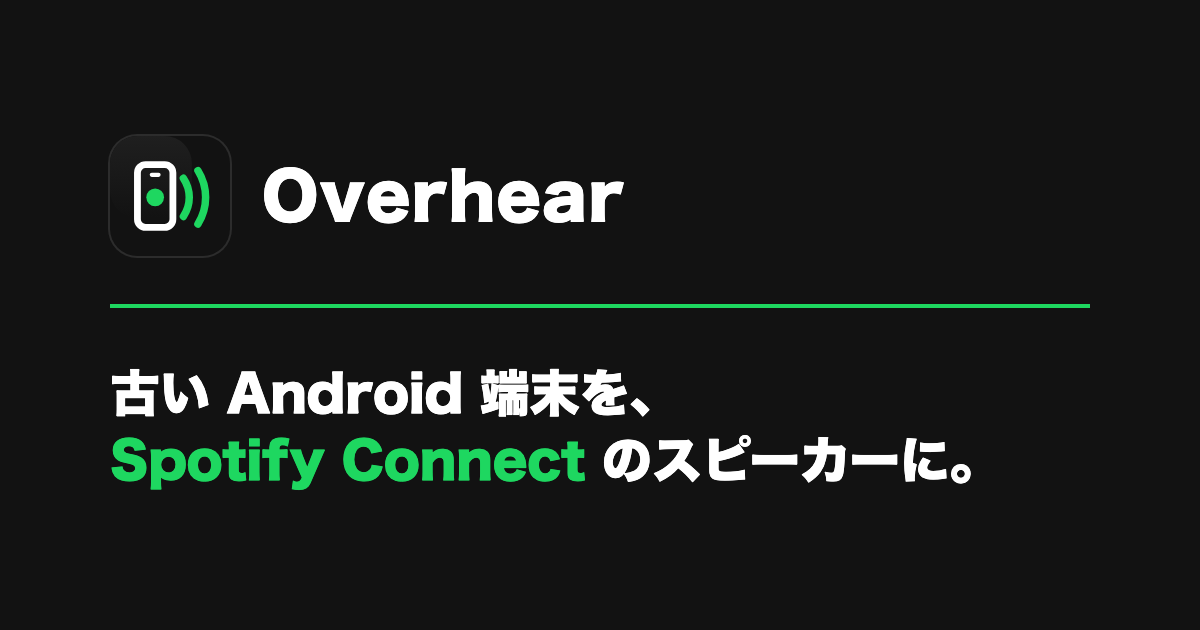
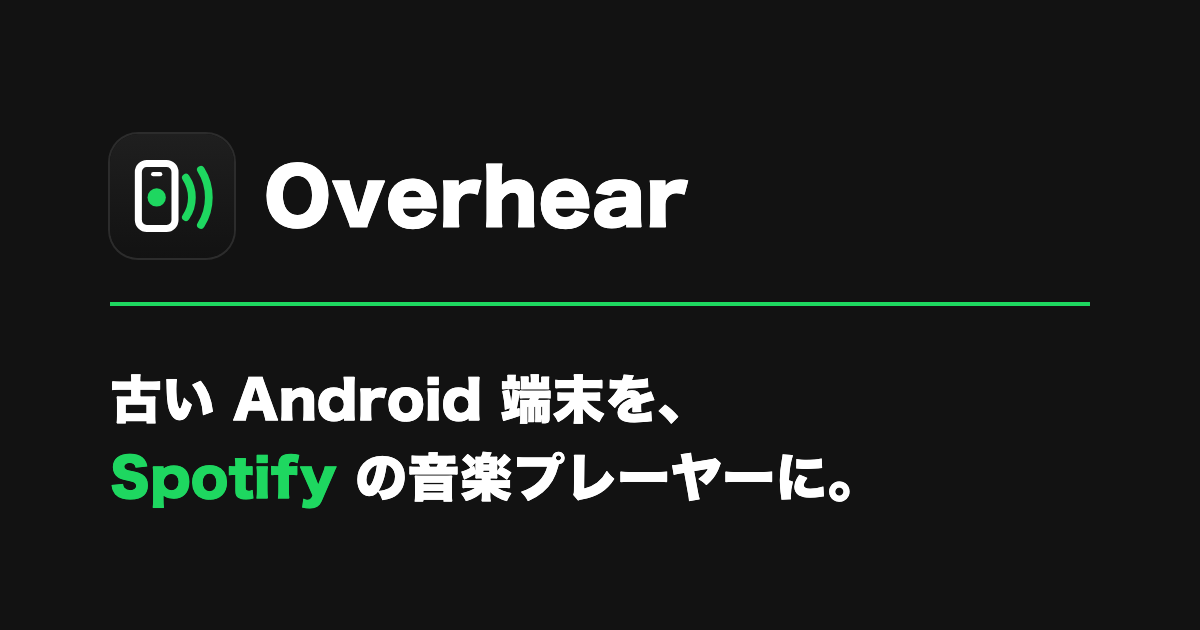
紹介ページと README を端末での選曲を主にした内容に改める
- コピーと OGP 画像を「Spotify の音楽プレーヤーに」に変更
- 紹介ページの「Overhear とは」をアイコン付きの箇条書きにし、公式クライアントで再生することを説明
- 「既知の不具合」を追加し、開始直後に再生に戻れない件とほかの人のプレイリストを移動
- スクリーンショットの角丸を小さく

diff --git a/docs/index.html b/docs/index.html
@@ -3,24 +3,24 @@
   <head>
     <meta charset="utf-8" />
     <meta name="viewport" content="width=device-width, initial-scale=1" />
-    <title>Overhear — 古い Android を Spotify Connect スピーカーに</title>
+    <title>Overhear — 古い Android を Spotify の音楽プレーヤーに</title>
     <meta
       name="description"
-      content="Overhear は古い Android 端末を Spotify Connect のスピーカー兼再生画面にするアプリです。Spotify 公式のヘッドレスクライアント Soloist で再生し、端末の画面からライブラリもたどれます。インストールと初回セットアップの手順。"
+      content="Overhear は古い Android 端末を Spotify の音楽プレーヤーにするアプリです。端末の画面だけで自分のライブラリを開いて選曲・再生でき、スマホの Spotify から Spotify Connect で操作することもできます。再生は Spotify 公式のヘッドレスクライアント Soloist が行います。インストールと初回セットアップの手順。"
     />
     <meta name="theme-color" content="#121212" />
     <meta property="og:type" content="website" />
     <meta property="og:site_name" content="Overhear" />
-    <meta property="og:title" content="Overhear — 古い Android を Spotify Connect スピーカーに" />
+    <meta property="og:title" content="Overhear — 古い Android を Spotify の音楽プレーヤーに" />
     <meta
       property="og:description"
-      content="古い Android 端末を Spotify Connect のスピーカー兼再生画面にするアプリ。インストールと初回セットアップの手順。"
+      content="古い Android 端末を Spotify の音楽プレーヤーに。端末だけでライブラリから選曲・再生でき、スマホの Spotify からも操作できます。インストールと初回セットアップの手順。"
     />
     <meta property="og:url" content="https://potkc.github.io/overhear/" />
     <meta property="og:image" content="https://potkc.github.io/overhear/og.png" />
     <meta property="og:image:width" content="1200" />
     <meta property="og:image:height" content="630" />
-    <meta property="og:image:alt" content="Overhear のアイコンと「古い Android 端末を、Spotify Connect のスピーカーに。」" />
+    <meta property="og:image:alt" content="Overhear のアイコンと「古い Android 端末を、Spotify の音楽プレーヤーに。」" />
     <meta property="og:locale" content="ja_JP" />
     <meta name="twitter:card" content="summary_large_image" />
     <meta name="twitter:site" content="@todayporton" />
@@ -361,6 +361,51 @@
         color: var(--text-2);
       }
 
+      .features {
+        list-style: none;
+        margin: 20px 0 8px;
+        padding: 0;
+      }
+      .features li {
+        display: flex;
+        gap: 16px;
+        align-items: flex-start;
+        padding: 14px 0;
+        border-top: 1px solid var(--line);
+      }
+      .features li:last-child {
+        border-bottom: 1px solid var(--line);
+      }
+      .feature-icon {
+        flex: none;
+        width: 40px;
+        height: 40px;
+        border-radius: 10px;
+        background: var(--surface);
+        color: var(--accent);
+        display: flex;
+        align-items: center;
+        justify-content: center;
+      }
+      .feature-icon svg {
+        width: 22px;
+        height: 22px;
+      }
+      .features h3 {
+        margin: 0 0 2px;
+        font-size: 1rem;
+        line-height: 1.5;
+      }
+      .features p {
+        margin: 0;
+        color: var(--text-2);
+        font-size: 0.92rem;
+        line-height: 1.7;
+      }
+      .card.official {
+        border-left: 3px solid var(--accent);
+      }
+
       .screens {
         display: flex;
         justify-content: center;
@@ -378,7 +423,7 @@
         width: 100%;
         height: auto;
         box-sizing: border-box;
-        border-radius: 18px;
+        border-radius: 12px;
         border: 8px solid #262626;
         box-shadow: 0 10px 30px rgba(0, 0, 0, 0.45);
       }
@@ -445,14 +490,6 @@
         h2 {
           font-size: 1.5rem;
         }
-        .grid-2 {
-          display: grid;
-          grid-template-columns: 1fr 1fr;
-          gap: 16px;
-        }
-        .grid-2 .card {
-          margin: 0;
-        }
       }
     </style>
   </head>
@@ -464,11 +501,13 @@
           <span>Overhear</span>
         </div>
         <h1>
-          古い Android 端末を、<br /><em>Spotify Connect</em> のスピーカーに。
+          古い Android 端末を、<br /><em>Spotify</em> の音楽プレーヤーに。
         </h1>
         <p class="lead">
-          スマホの Spotify
-          で再生先にこの端末を選ぶと、端末から音が出て、画面に曲名・アートワーク・シークバー・キューが表示されます。端末の画面から自分のライブラリをたどって選曲することもできます。
+          端末の画面だけで自分のライブラリを開き、アルバムやプレイリストを選んで再生できます。スマホの
+          Spotify から再生先に選べば、Spotify Connect
+          のスピーカーとしても使えます。再生は Spotify
+          公式のクライアントが行います。
         </p>
         <div class="actions">
           <a
@@ -503,7 +542,7 @@
           <li><a href="#setup">初回セットアップ</a></li>
           <li><a href="#usage">使い方のメモ</a></li>
           <li><a href="#privacy">キーとログインの扱い</a></li>
-          <li><a href="#feedback">要望・バグ報告</a></li>
+          <li><a href="#known-issues">既知の不具合</a></li>
         </ol>
       </div>
     </nav>
@@ -512,11 +551,8 @@
       <section id="about">
         <h2>Overhear とは</h2>
         <p>
-          Overhear は、古い Android 端末を Spotify Connect
-          のスピーカー兼再生画面にするアプリです。音を鳴らすのは Spotify
-          公式のヘッドレスクライアント <strong>Soloist</strong> で、Overhear
-          はそれを端末の上で動かします。非公式クライアントは使わず、DRM
-          の回避もしません。
+          古い Android 端末を Spotify
+          の音楽プレーヤーにするアプリです。
         </p>
         <div class="screens">
           <figure>
@@ -535,25 +571,52 @@
             <figcaption>ライブラリ（アルバム）</figcaption>
           </figure>
         </div>
-        <div class="grid-2">
-          <div class="card">
-            <h3>スピーカーとして</h3>
-            <p class="muted">
-              スマホや PC の Spotify
-              から再生先に選ぶだけ。曲名・アートワーク・キューが表示され、端末からも再生・一時停止・曲送りができます。音量は端末の音量キーとスマホの
-              Spotify の両方で変えられ、連動します。必要なのは Soloist の API
-              キーだけです。
-            </p>
-          </div>
-          <div class="card">
-            <h3>ライブラリ（任意）</h3>
-            <p class="muted">
-              Spotify
-              にログインすると、端末の画面で検索・お気に入りの曲・プレイリスト・アルバム・アーティスト・最近再生をたどれます。順番どおり・シャッフルの再生、選んだ曲からの再生、お気に入りへの追加・削除もできます。自分の
-              Spotify Developer アプリの Client ID が要ります。
-            </p>
-          </div>
+        <ul class="features">
+          <li>
+            <span class="feature-icon"><svg viewBox="0 0 24 24" aria-hidden="true"><path fill="currentColor" d="M2 18H12V20H2V18ZM2 11H16V13H2V11ZM2 4H22V6H2V4ZM19 15.1707V9H24V11H21V18C21 19.6569 19.6569 21 18 21C16.3431 21 15 19.6569 15 18C15 16.3431 16.3431 15 18 15C18.3506 15 18.6872 15.0602 19 15.1707ZM18 19C18.5523 19 19 18.5523 19 18C19 17.4477 18.5523 17 18 17C17.4477 17 17 17.4477 17 18C17 18.5523 17.4477 19 18 19Z"/></svg></span>
+            <div>
+              <h3>端末だけで選曲・再生</h3>
+              <p>検索・お気に入りの曲・プレイリスト・アルバム・アーティスト・最近再生をたどり、順番どおり・シャッフル・選んだ曲から再生できます。</p>
+            </div>
+          </li>
+          <li>
+            <span class="feature-icon"><svg viewBox="0 0 24 24" aria-hidden="true"><path fill="currentColor" d="M17.0001 12C17.5524 12 18.0001 12.4477 18.0001 13V22H16.0001V14H8.00015V22H6.00015V13C6.00015 12.4477 6.44786 12 7.00015 12H17.0001ZM12.0001 16V18H10.0001V16H12.0001ZM12.0001 6C14.3491 6 16.3827 7.34978 17.3678 9.31602L15.5787 10.2108C14.922 8.89991 13.5662 8 12.0001 8C10.4341 8 9.07833 8.89991 8.42163 10.2108L6.63247 9.31602C7.61755 7.34978 9.65122 6 12.0001 6ZM12.0001 2C15.9153 2 19.3049 4.24991 20.9466 7.5273L19.1576 8.42242C17.8443 5.80019 15.1325 4 12.0001 4C8.86783 4 6.15596 5.80019 4.84271 8.42242L3.05371 7.5273C4.69541 4.24991 8.08503 2 12.0001 2Z"/></svg></span>
+            <div>
+              <h3>スマホの Spotify から操作</h3>
+              <p>Spotify Connect の再生先としてこの端末を選べば、スマホや PC の Spotify からリモコンのように選曲・操作できます。</p>
+            </div>
+          </li>
+          <li>
+            <span class="feature-icon"><svg viewBox="0 0 24 24" aria-hidden="true"><path fill="currentColor" d="M12.001 4.52853C14.35 2.42 17.98 2.49 20.2426 4.75736C22.5053 7.02472 22.583 10.637 20.4786 12.993L11.9999 21.485L3.52138 12.993C1.41705 10.637 1.49571 7.01901 3.75736 4.75736C6.02157 2.49315 9.64519 2.41687 12.001 4.52853ZM18.827 6.1701C17.3279 4.66794 14.9076 4.60701 13.337 6.01687L12.0019 7.21524L10.6661 6.01781C9.09098 4.60597 6.67506 4.66808 5.17157 6.17157C3.68183 7.66131 3.60704 10.0473 4.97993 11.6232L11.9999 18.6543L19.0201 11.6232C20.3935 10.0467 20.319 7.66525 18.827 6.1701Z"/></svg></span>
+            <div>
+              <h3>お気に入り</h3>
+              <p>いまの曲やライブラリの曲を、アカウントのお気に入りに追加・削除できます。</p>
+            </div>
+          </li>
+          <li>
+            <span class="feature-icon"><svg viewBox="0 0 24 24" aria-hidden="true"><path fill="currentColor" d="M6.60282 10.0001L10 7.22056V16.7796L6.60282 14.0001H3V10.0001H6.60282ZM2 16.0001H5.88889L11.1834 20.3319C11.2727 20.405 11.3846 20.4449 11.5 20.4449C11.7761 20.4449 12 20.2211 12 19.9449V4.05519C12 3.93977 11.9601 3.8279 11.887 3.73857C11.7121 3.52485 11.3971 3.49335 11.1834 3.66821L5.88889 8.00007H2C1.44772 8.00007 1 8.44778 1 9.00007V15.0001C1 15.5524 1.44772 16.0001 2 16.0001ZM23 12C23 15.292 21.5539 18.2463 19.2622 20.2622L17.8445 18.8444C19.7758 17.1937 21 14.7398 21 12C21 9.26016 19.7758 6.80629 17.8445 5.15557L19.2622 3.73779C21.5539 5.75368 23 8.70795 23 12ZM18 12C18 10.0883 17.106 8.38548 15.7133 7.28673L14.2842 8.71584C15.3213 9.43855 16 10.64 16 12C16 13.36 15.3213 14.5614 14.2842 15.2841L15.7133 16.7132C17.106 15.6145 18 13.9116 18 12Z"/></svg></span>
+            <div>
+              <h3>音量の連動</h3>
+              <p>端末の音量キーでも、スマホの Spotify でも変えられ、どちらにも反映されます。</p>
+            </div>
+          </li>
+        </ul>
+        <div class="card official">
+          <h3>Spotify 公式のクライアントで再生</h3>
+          <p class="muted">
+            音を鳴らすのは、Spotify が開発者向けに配布している公式のヘッドレスクライアント
+            <strong>Soloist</strong> です。Soloist は Spotify
+            の規約に従って、自分のアカウントで発行した API
+            キーで、端末上で Spotify から直接ダウンロードします。Overhear
+            はそれを端末の上で動かすだけで、非公式クライアントは使わず、DRM
+            の回避もしません。
+          </p>
         </div>
+        <p class="muted">
+          スマホの Spotify から操作するだけなら Soloist の API
+          キーだけで使えます。端末でライブラリを使うには、加えて自分の Spotify
+          Developer アプリの Client ID が要ります（<a href="#step-app">手順</a>）。
+        </p>
       </section>
 
       <section id="requirements">
@@ -561,8 +624,8 @@
         <ul class="plain">
           <li>
             <strong>Android 4.1〜7.1</strong> の
-            <strong>ARMv7</strong> 端末。Wi-Fi につながること。<br>
-            Android 8.0 以降では動作しません。Android 7.0 以降なら Spotify の公式アプリが使えるので、Overhear を使う必要はありません。
+            <strong>ARMv7</strong> 端末。インターネットにつながること。<br>
+            <span class="muted">Android 8.0 以降では動作しません。Android 7.0 以降なら Spotify の公式アプリが使えるので、Overhear を使う必要はありません。</span>
           </li>
           <li>
             <strong>Spotify Premium</strong> のアカウント（Soloist の API
@@ -572,13 +635,11 @@
             端末と同じ Wi-Fi
             につながるスマホ（初回の設定とログインに使います）。
           </li>
-          <li>APK を端末へ移すための PC か、もう一台のスマホ。</li>
+          <li>APK を端末へ移すための PC またはスマホ。</li>
         </ul>
         <div class="note">
           <p>
-            <strong
-              >動作確認は Xperia mini（ST15i、Android 4.3）だけです。</strong
-            >
+            動作確認は Xperia mini（ST15i、Android 4.3）だけです。
             ほかの端末でも動く見込みはありますが、確かめていません。
           </p>
         </div>
@@ -649,12 +710,13 @@
           <li id="step-app">
             <h3>
               Spotify のアプリを作る
-              <span class="tag">ライブラリを使うときだけ</span>
+              <span class="tag">端末で選曲するなら</span>
             </h3>
             <p>
               ライブラリは Spotify Web API を使うので、自分の Spotify Developer
               のアプリが必要です（Overhear には Client ID
-              が組み込まれていません）。スピーカーとしてだけ使うなら、この手順は飛ばしてかまいません。
+              が組み込まれていません）。スマホの Spotify
+              から操作するだけなら、この手順は飛ばしてかまいません。
             </p>
             <ol class="sub">
               <li>
@@ -713,7 +775,7 @@
               <li>端末の画面が「完了」に変わります。</li>
             </ol>
             <p class="muted">
-              ライブラリを使わないなら、Client ID は空欄のまま「Spotify
+              ライブラリを使わない（スマホの Spotify から操作するだけの）なら、Client ID は空欄のまま「Spotify
               にログインする」の印を外して
               <span class="ui">「保存」</span> を押します。QR コードの画面は最大
               5 分で閉じ、QR コードは一回限りです。
@@ -731,10 +793,12 @@
           </li>
 
           <li id="step-select">
-            <h3>スマホの Spotify で再生先に選ぶ</h3>
+            <h3>再生する</h3>
             <p>
-              スマホの Spotify
-              で再生先（デバイス）の一覧を開き、そのデバイス名を選びます。端末から音が出れば完了です。
+              再生画面の右下の円盤のアイコン（または戻るキー）でライブラリを開き、アルバムやプレイリストを選んで再生します。端末から音が出れば完了です。
+            </p>
+            <p class="muted">
+              スマホの Spotify から操作するときは、再生先（デバイス）の一覧でそのデバイス名を選びます。
             </p>
           </li>
         </ol>
@@ -743,17 +807,16 @@
       <section id="usage">
         <h2>使い方のメモ</h2>
         <dl class="faq">
-          <dt>しばらく使わないと止まります（自動停止）</dt>
+          <dt>しばらく使わないと止まります</dt>
           <dd>
             この端末で再生していない状態（一時停止中・<code>Standby</code>・接続待ちなど）が続くと、電池を守るためにサービスを止めます。時間は設定画面の「再生」の「再生していないときの自動停止」で選べます（既定
             15 分。5 分・30
-            分・しない）。再生画面かライブラリを表示している間は数えません。
+            分・しない）。
           </dd>
 
           <dt>止まったあとに再開するには</dt>
           <dd>
-            アプリ（再生画面かライブラリ）を開くと、自動停止のあとは再び開始します。止まっている間はアートワークの位置に大きな<strong>電源ボタン</strong>が出るので、それをタップしても開始できます（左下の
-            <code>Stopped — tap to start</code> も同じ）。通知の ✕
+            アプリ（再生画面かライブラリ）を開くと、自動停止のあとは再び開始します。止まっている間はアートワークの位置に大きな<strong>電源ボタン</strong>が出るので、それをタップしても開始できます。通知の ✕
             や設定の「停止」で止めたときは、開いても自動では開始しません。
           </dd>
 
@@ -774,12 +837,6 @@
           <dd>
             端末の音量キーでメディア音量を変えます。スマホの Spotify
             で音量を変えても、端末のメディア音量が連動します。
-          </dd>
-
-          <dt>ほかの人のプレイリスト（実験的）</dt>
-          <dd>
-            ほかの人のプレイリストは Web API で曲一覧が取れないため、「再生」「シャッフル」だけを出し、再生中は
-            Soloist のキューから曲一覧を組み立てています。実験的な機能なので、一覧が出ない・順番が合わないことがあります。
           </dd>
         </dl>
       </section>
@@ -814,6 +871,26 @@
             から直接ダウンロードします。
           </li>
         </ul>
+      </section>
+
+      <section id="known-issues">
+        <h2>既知の不具合</h2>
+        <dl class="faq">
+          <dt>開始直後に前回の曲の再生に戻れないことがある</dt>
+          <dd>
+            サービスを開始した直後に ▶
+            を押しても、前回の曲が再生されないことがあります。そのときは、設定画面の「再生サービス」で<span
+              class="ui">「停止」→「開始」</span>と
+            Soloist を起動し直すか、スマホの Spotify
+            で再生先にこの端末を選んで再生を始めてみてください。
+          </dd>
+
+          <dt>ほかの人のプレイリストの曲一覧（実験的）</dt>
+          <dd>
+            ほかの人のプレイリストは Web API で曲一覧が取れないため、「再生」「シャッフル」だけを出し、再生中は
+            Soloist のキューから曲一覧を組み立てています。実験的な機能なので、一覧が出ない・順番が合わないことがあります。
+          </dd>
+        </dl>
       </section>
 
       <section id="feedback">
